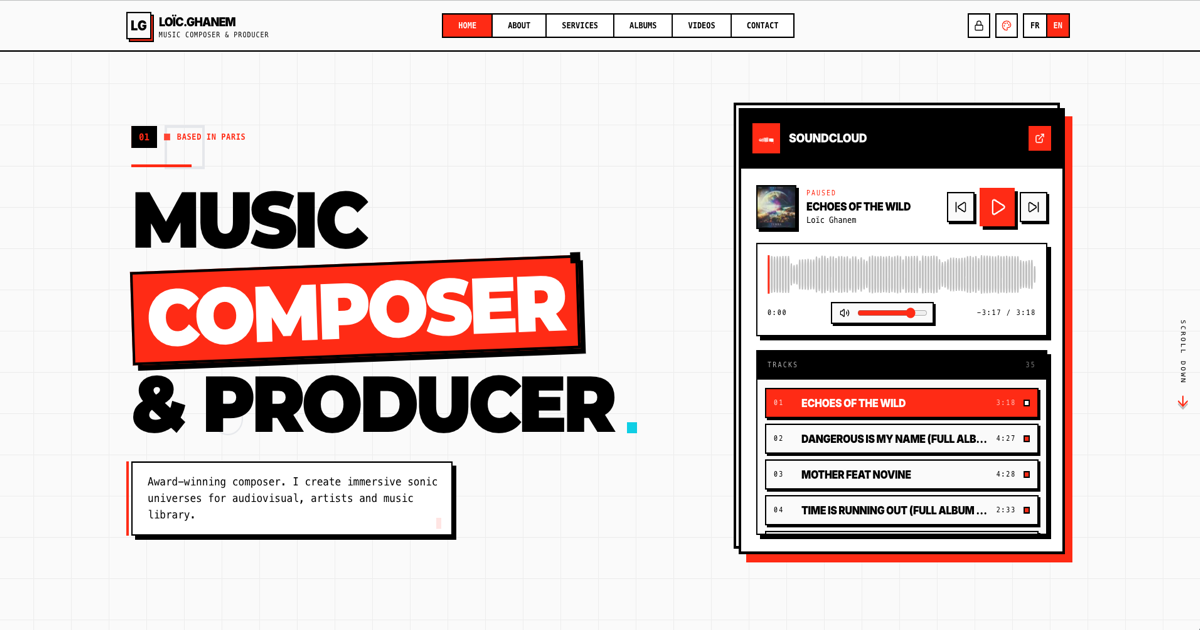
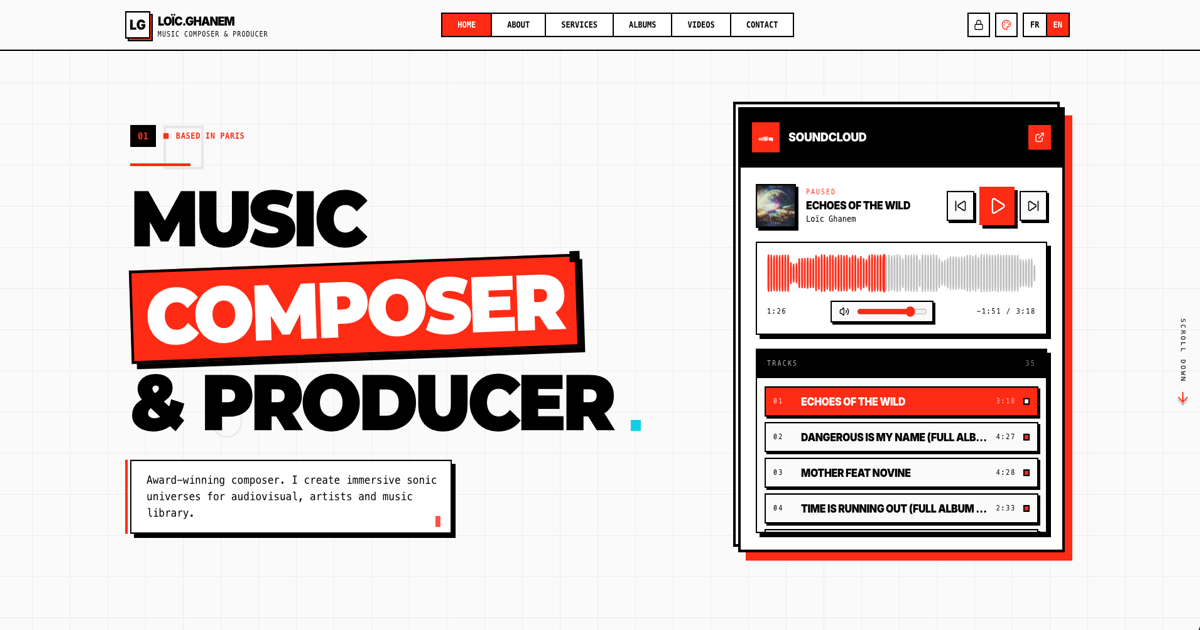
fix: update OG image with playing waveform

diff --git a/app/[locale]/layout.tsx b/app/[locale]/layout.tsx
@@ -77,7 +77,7 @@ export async function generateMetadata({
       siteName: "Loïc Ghanem Portfolio",
       images: [
         {
-          url: "/img/og-loic.png?v=5",
+          url: "/img/og-loic.png?v=6",
           width: 1200,
           height: 630,
           alt: "Loïc Ghanem - Music Composer",
@@ -88,7 +88,7 @@ export async function generateMetadata({
       card: "summary_large_image",
       title: content.title,
       description: content.ogDescription,
-      images: ["/img/og-loic.png?v=5"],
+      images: ["/img/og-loic.png?v=6"],
     },
     robots: {
       index: true,
